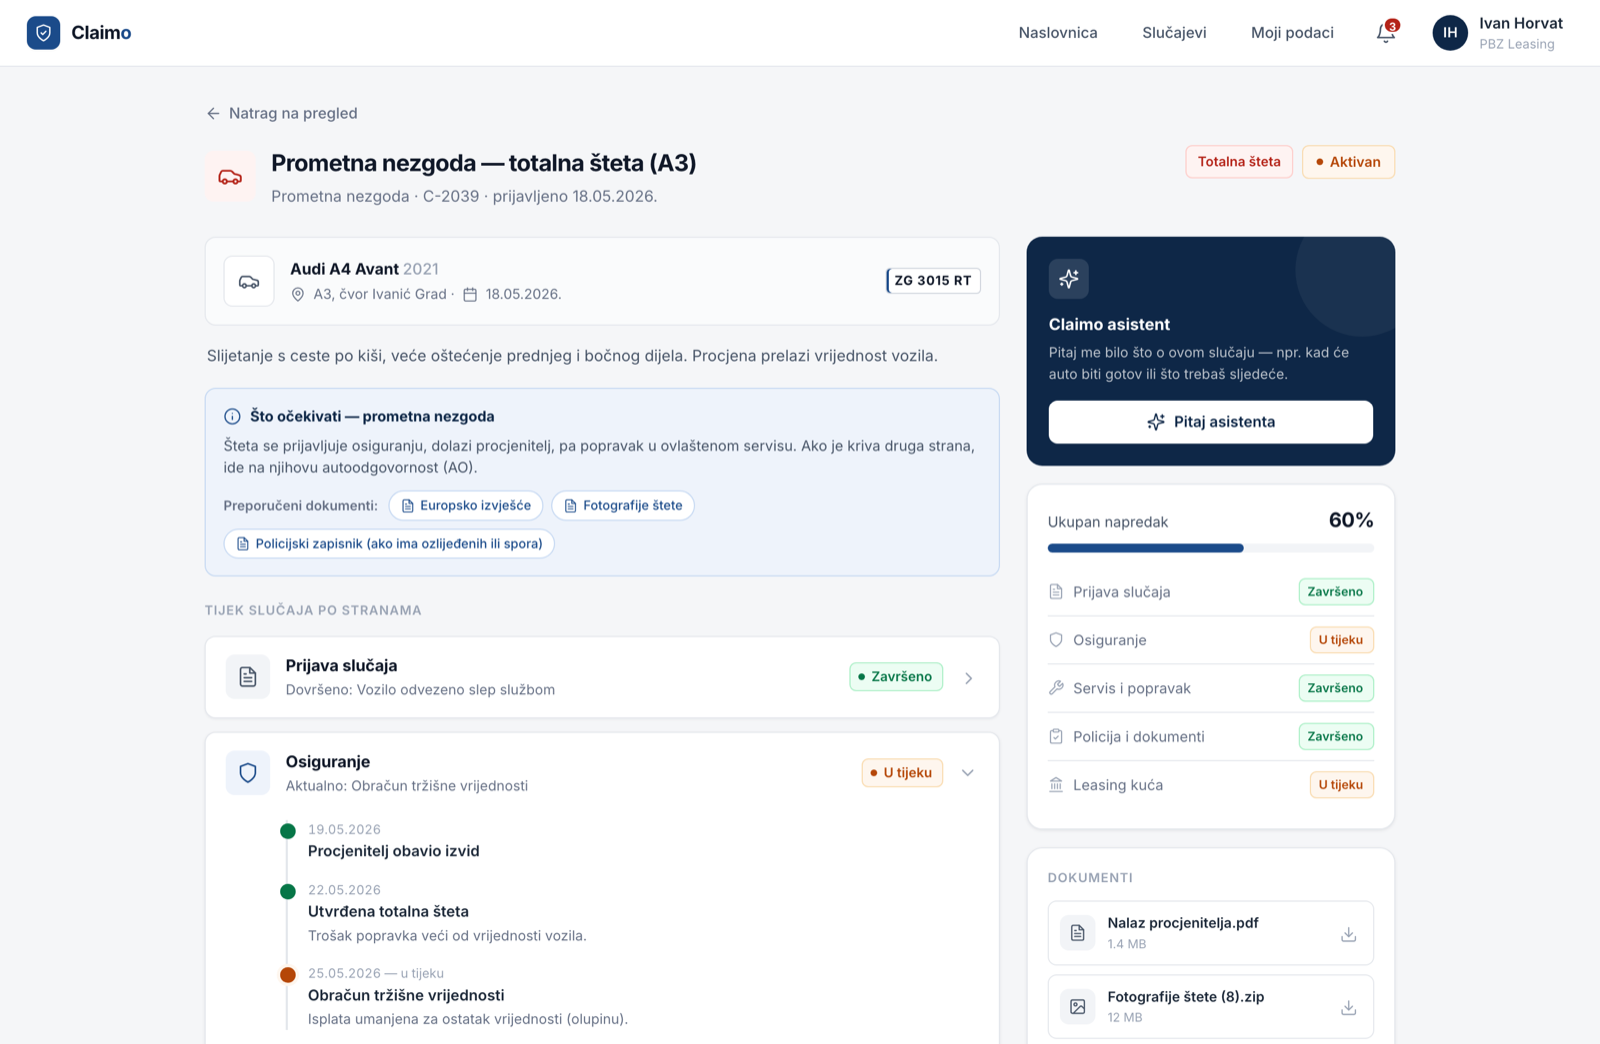
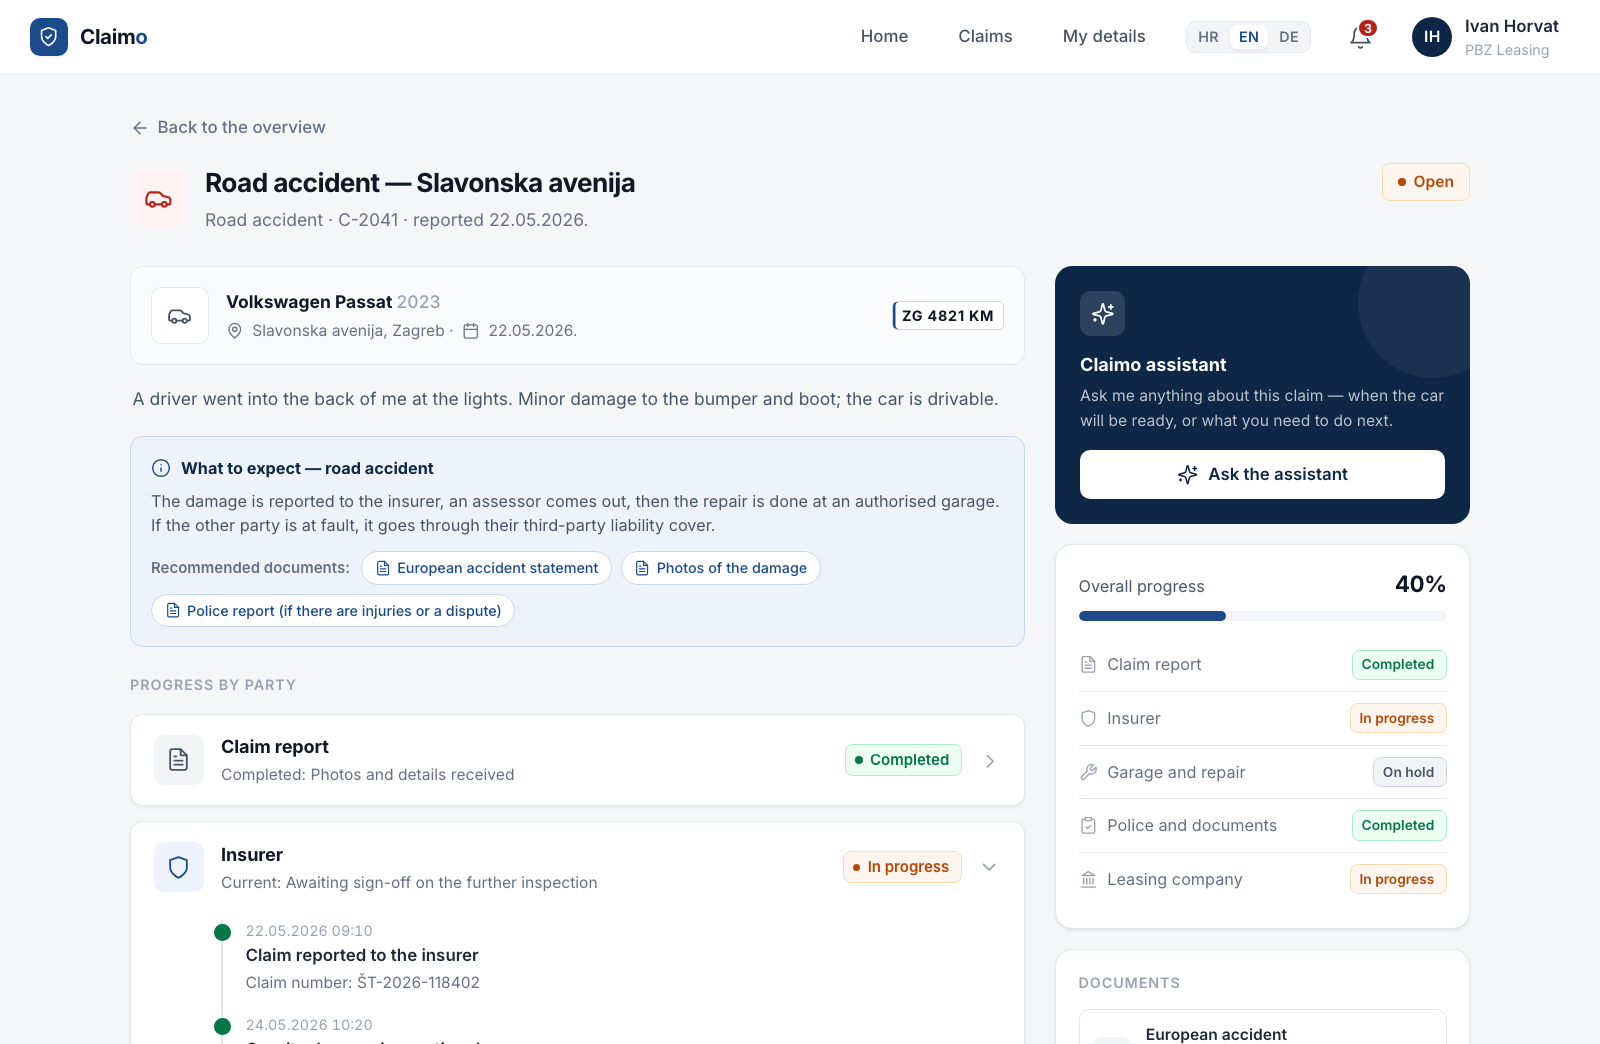
Claimo: recapture screenshots from the English build
The product page reads in English but the screenshots showed the
Croatian UI — the exact mismatch the translation was meant to remove.
Recaptured all three from claimo.hr/en/; the Croatian version of the
page carries them too, by choice.

The AI-demo shot grew to 1600x1250 because English copy runs longer;
its height attribute is updated to match.

diff --git a/apps/claimo.html b/apps/claimo.html
@@ -305,7 +305,7 @@
     <h2 id="h-shots">Screenshots</h2>
     <div class="shots">
       <figure class="shot shot-wide">
-        <img src="/apps/screenshots/claimo-ai.png" alt="Claimo — AI reads incoming emails and builds the case timeline" loading="lazy" width="1600" height="1111" />
+        <img src="/apps/screenshots/claimo-ai.png" alt="Claimo — AI reads incoming emails and builds the case timeline" loading="lazy" width="1600" height="1250" />
         <figcaption id="cap-ai">Four emails from four different parties — Claude classifies each one, pulls out the plate, claim number and amount, and builds a single case.</figcaption>
       </figure>
       <figure class="shot">
